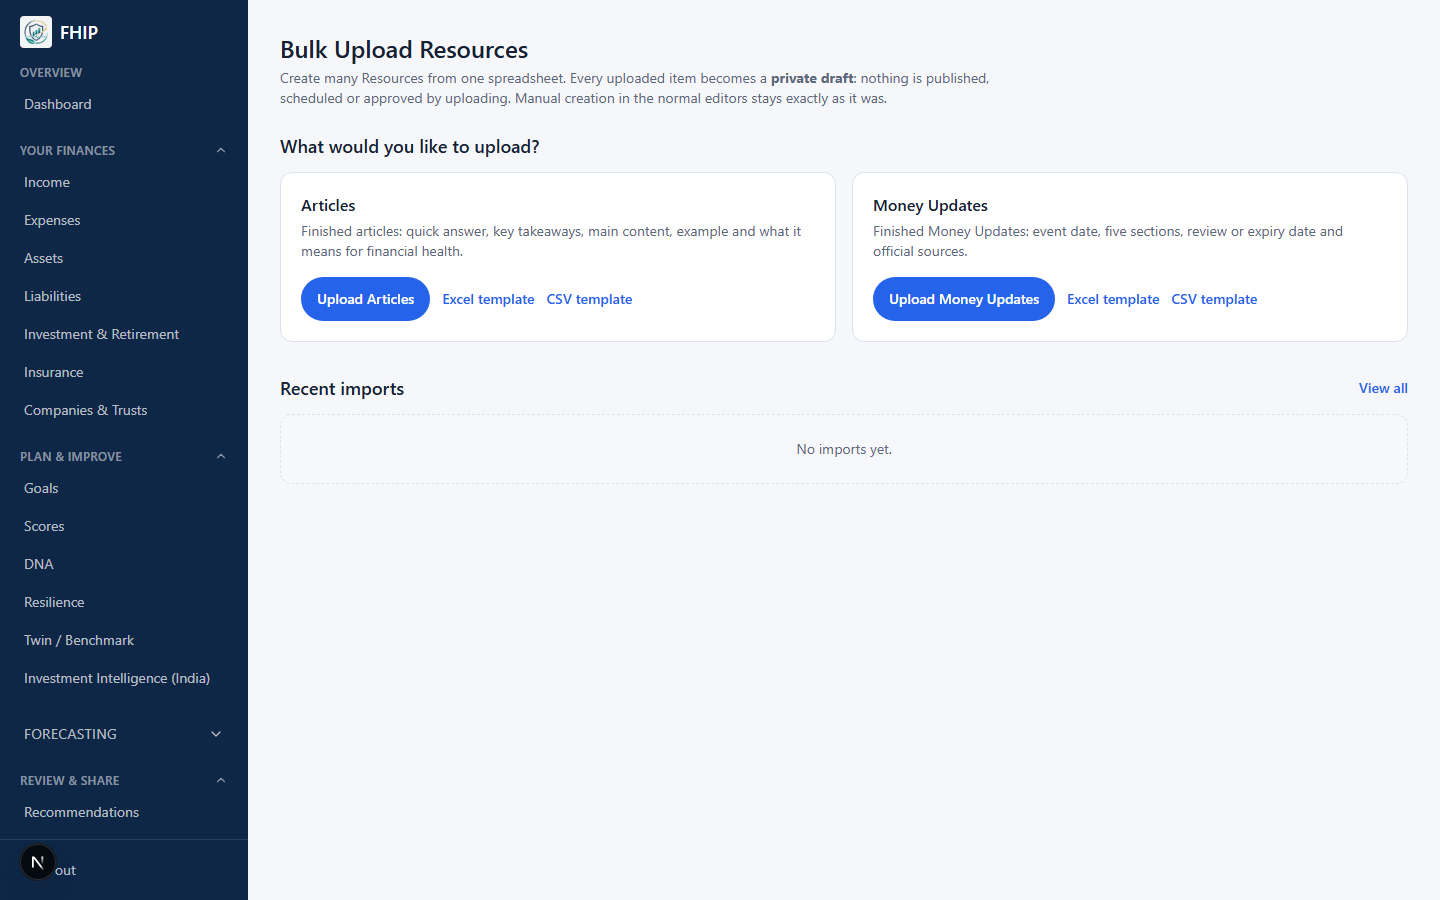
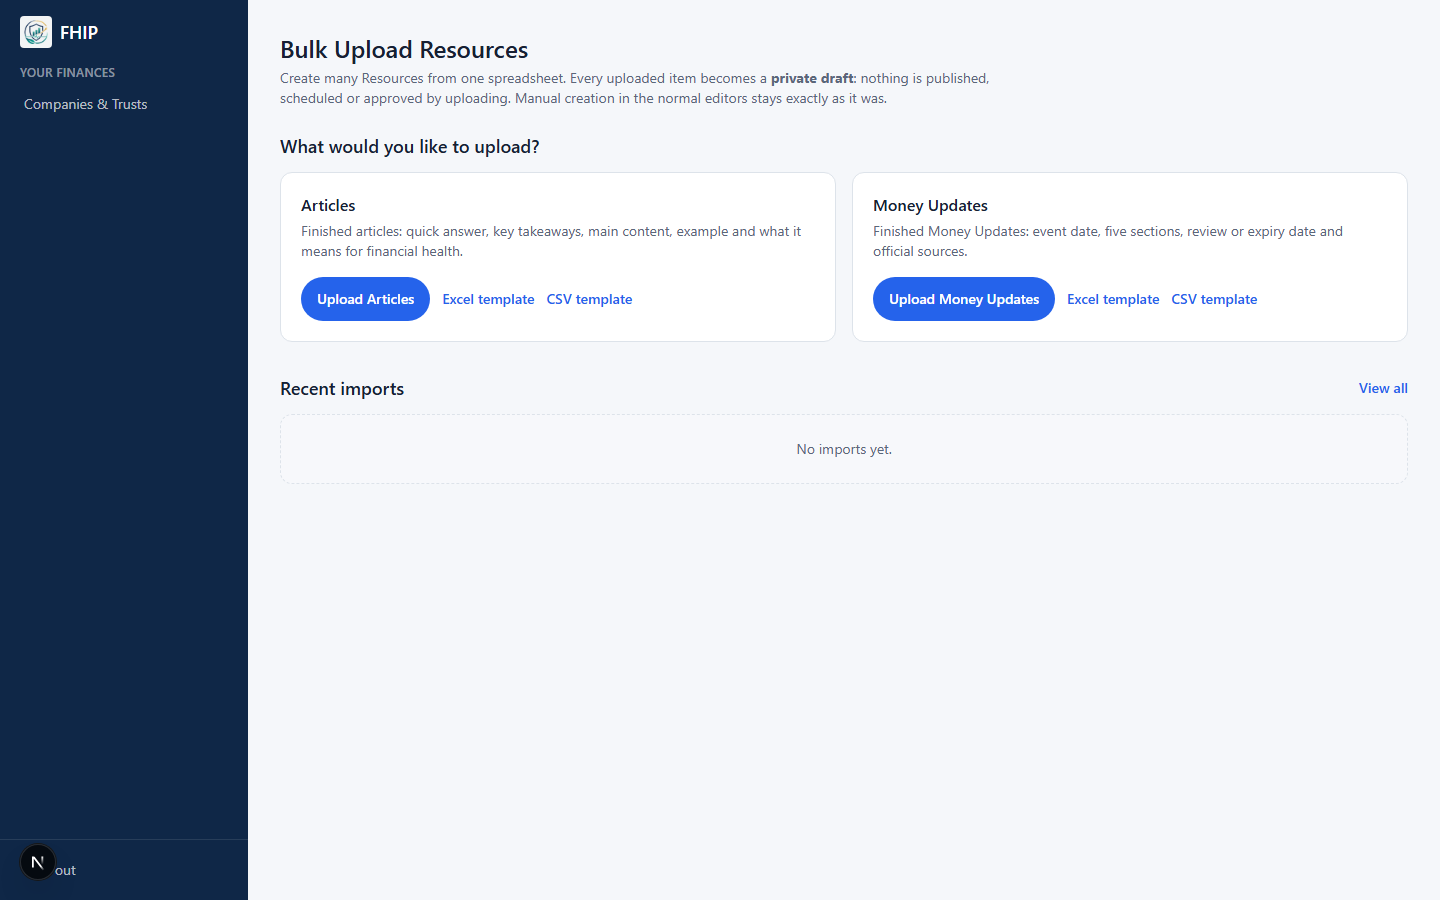
evidence: browser certification 48/48

diff --git a/scripts/resources_bulk_upload_browser_cert.ts b/scripts/resources_bulk_upload_browser_cert.ts
@@ -267,7 +267,7 @@ async function main() {
   p2.setDefaultNavigationTimeout(180_000);
   p2.setDefaultTimeout(90_000);
   await p2.goto(`${APP}/admin/resources/import`, { waitUntil: 'domcontentloaded' });
-  await p2.waitForTimeout(4000);
+  await p2.waitForURL((u) => !u.pathname.startsWith('/admin/resources/import'), { timeout: 90_000 }).catch(() => undefined);
   check('UI an Author is redirected away from /admin/resources/import (no chooser rendered)', !new URL(p2.url()).pathname.startsWith('/admin/resources/import') && (await p2.getByText('What would you like to upload?').count()) === 0, p2.url());
   await ctx2.close();
   await browser.close();
